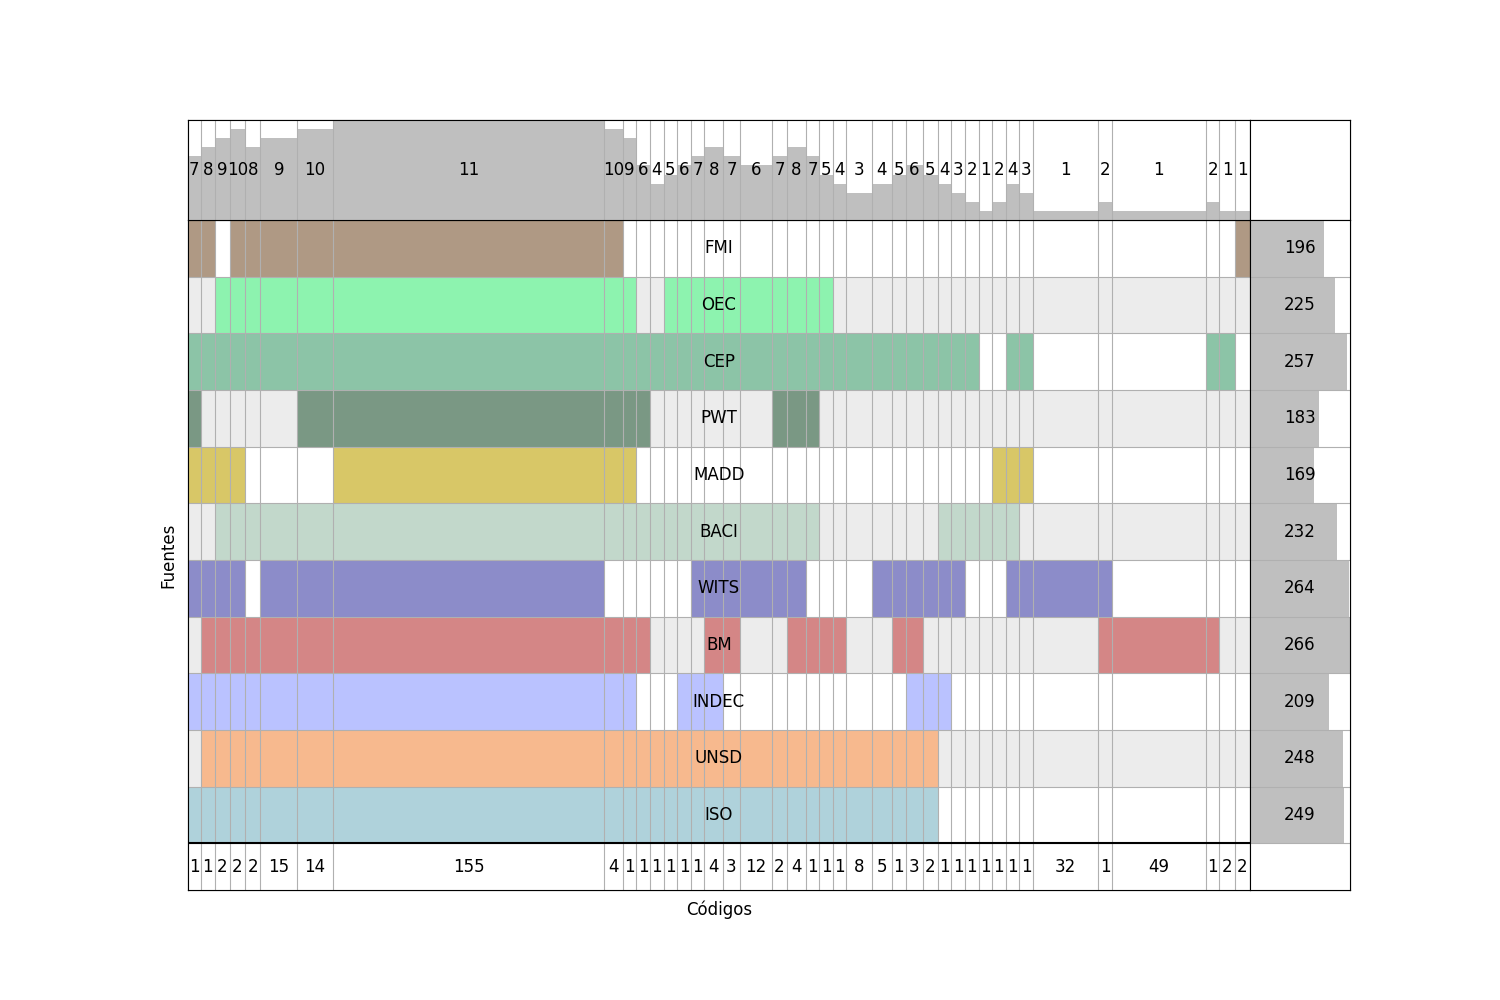
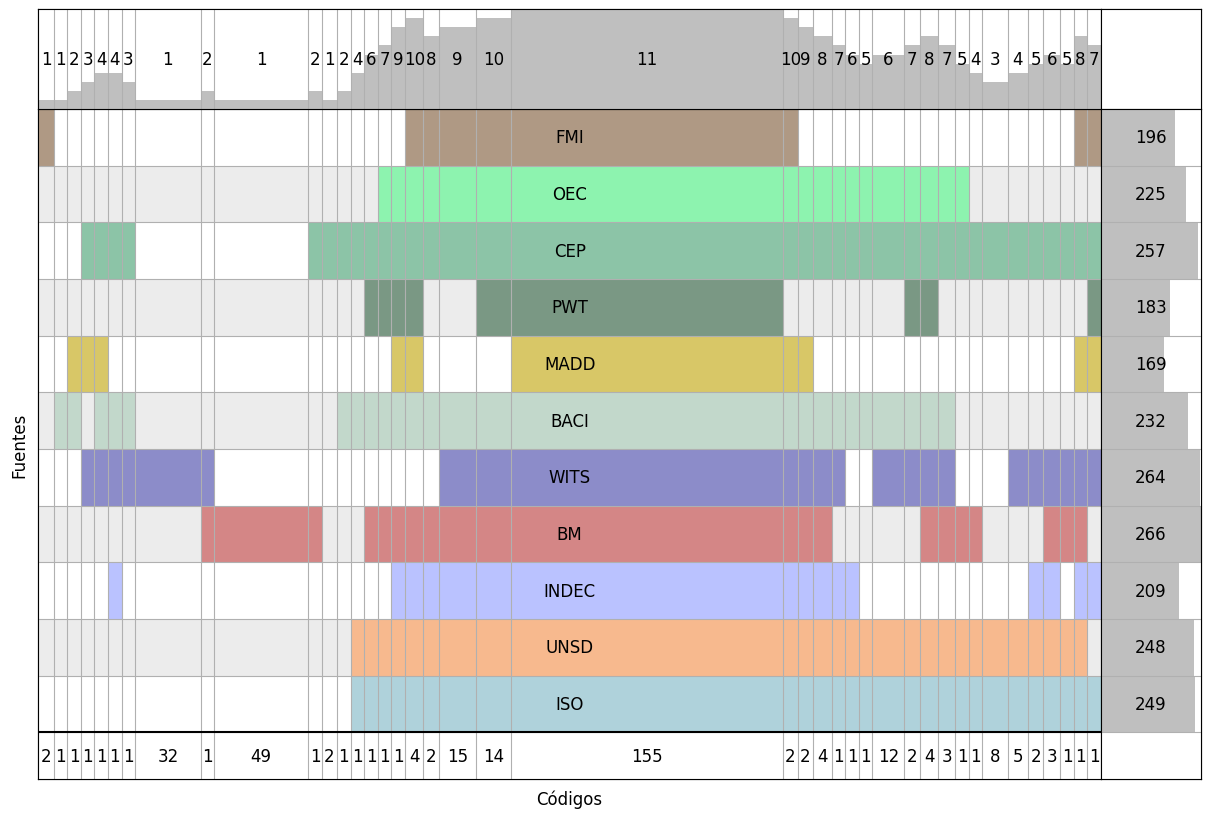
agrego img a readme

diff --git a/README.md b/README.md
@@ -2,9 +2,11 @@
 
 El [geonomenclador](https://docs.google.com/spreadsheets/d/1744VS5xENUg1JRCaKr1dGUr73jgP-wz27guIhHvYGbQ) es esencialmente un diccionario que asigna códigos "estandar" a paises y regiones geográficas. Es una parte vital de ArgenData, pues es necesario para armonizar los datos provenientes de distintas bases.
 
+![geo_interseccion](./assets/supervenn.png)
+
 ## Tabla interactiva
 
-Acceso a explroador del geonomenclador <https://argendatafundar.github.io/geonomencladores/geonomenclador_argendata.html>
+Acceso a explorador del geonomenclador <https://argendatafundar.github.io/geonomencladores/geonomenclador_argendata.html>
 
 [![](https://github.com/user-attachments/assets/efb26c9f-05b2-484b-8264-24b5dd2a0fd5)](https://argendatafundar.github.io/geonomencladores/geonomenclador_argendata.html)
 
